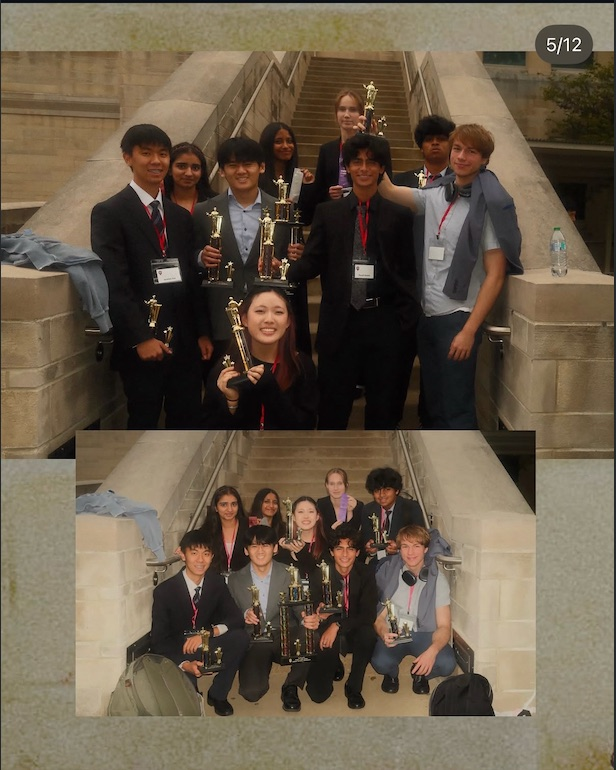
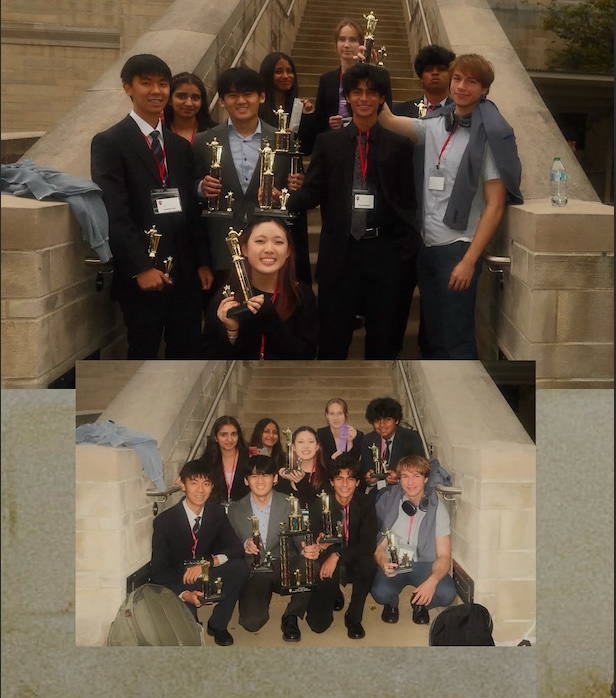
Add pause/play buttons to the FRC clips, crop the Congress photo, record AmeriFab diagram clearance

diff --git a/index.html b/index.html
@@ -313,12 +313,18 @@
       </div>
       <!-- Two silent looping clips. main.js stops them autoplaying for visitors who prefer reduced motion. -->
       <div class="clips">
-        <video muted loop autoplay playsinline preload="metadata" width="360" height="640" poster="assets/frc1-poster.jpg" aria-label="Silent looping clip: a student in safety glasses leans over a miter saw at a workbench in the team's shop while others work behind.">
+        <div class="clip">
+          <video muted loop autoplay playsinline preload="metadata" width="360" height="640" poster="assets/frc1-poster.jpg" aria-label="Silent looping clip: a student in safety glasses leans over a miter saw at a workbench in the team's shop while others work behind.">
           <source src="assets/frc1.mp4" type="video/mp4">
         </video>
-        <video muted loop autoplay playsinline preload="metadata" width="360" height="640" poster="assets/frc2-poster.jpg" aria-label="Silent looping clip: students stand around a machine in the team's shop and watch it work.">
+          <button type="button" class="clip-toggle" data-label-pause="[PLACEHOLDER frc.clip.pause: accessible name for the button that pauses an FRC 868 clip]" data-label-play="[PLACEHOLDER frc.clip.play: accessible name for the button that plays a paused FRC 868 clip]" aria-label="[PLACEHOLDER frc.clip.pause: accessible name for the button that pauses an FRC 868 clip]"></button>
+        </div>
+        <div class="clip">
+          <video muted loop autoplay playsinline preload="metadata" width="360" height="640" poster="assets/frc2-poster.jpg" aria-label="Silent looping clip: students stand around a machine in the team's shop and watch it work.">
           <source src="assets/frc2.mp4" type="video/mp4">
         </video>
+          <button type="button" class="clip-toggle" data-label-pause="[PLACEHOLDER frc.clip.pause: accessible name for the button that pauses an FRC 868 clip]" data-label-play="[PLACEHOLDER frc.clip.play: accessible name for the button that plays a paused FRC 868 clip]" aria-label="[PLACEHOLDER frc.clip.pause: accessible name for the button that pauses an FRC 868 clip]"></button>
+        </div>
       </div>
       <!-- Slot for the team photo (M2). -->
       <div class="slot" id="frc-photo">[PLACEHOLDER frc.photo.alt: alt text describing the team photo]</div>
@@ -347,7 +353,7 @@
             <td>
               <p>Congress Event Head: I lead our new extemporaneous-style Congress division (~15–20 competitors), teaching students to debate congressional legislation and the benefits and drawbacks of proposing any one idea. Turnout doubled year over year.</p>
               <figure class="thumb">
-                <img src="assets/also-congress.jpg" width="616" height="770" loading="lazy" alt="Two group photos of speech and debate students in formal clothes holding trophies on stone steps.">
+                <img src="assets/also-congress.jpg" width="616" height="698" loading="lazy" alt="Two group photos of speech and debate students in formal clothes holding trophies on stone steps.">
               </figure>
             </td>
             <td></td>

diff --git a/styles.css b/styles.css
@@ -387,7 +387,38 @@ h3 {
   padding: 0.65rem;
   background: var(--sheet);
 }
-.clips video { display: block; width: 100%; height: auto; max-width: 20rem; justify-self: center; border: 1px solid var(--ink); }
+.clip { position: relative; max-width: 20rem; justify-self: center; }
+.clips video { display: block; width: 100%; height: auto; border: 1px solid var(--ink); }
+/* Small pause/play button in the clip's corner; the icon is drawn by CSS so it needs no text */
+.clip-toggle {
+  position: absolute;
+  right: 0.5rem;
+  bottom: 0.5rem;
+  width: 2.75rem;
+  height: 2.75rem;
+  padding: 0;
+  background: var(--sheet);
+  border: 1px solid var(--ink);
+  border-radius: 0;
+  color: var(--ink);
+  cursor: pointer;
+}
+.clip-toggle::before {
+  content: "";
+  display: block;
+  margin: auto;
+  width: 0.9rem;
+  height: 1rem;
+  background: linear-gradient(90deg, currentColor 0 35%, transparent 35% 65%, currentColor 65%);
+}
+.clip-toggle.paused::before {
+  width: 0;
+  height: 0;
+  background: none;
+  border-style: solid;
+  border-width: 0.5rem 0 0.5rem 0.85rem;
+  border-color: transparent transparent transparent currentColor;
+}
 
 /* AmeriFab system diagram: ink lines on sheet color; dashed means planned, not built */
 .diagram { margin: 0; padding: 0.65rem; background: var(--sheet); }

diff --git a/main.js b/main.js
@@ -160,11 +160,21 @@ document.querySelectorAll('.video-play').forEach((button) => {
   });
 });
 
-// Looping clips: visitors who prefer reduced motion get the poster frame and the browser's own play controls instead.
-if (window.matchMedia('(prefers-reduced-motion: reduce)').matches) {
-  document.querySelectorAll('.clips video').forEach((video) => {
+// Looping clips: each has a pause/play button. Visitors who prefer reduced motion get the poster frame until they press play.
+const clipsReduced = window.matchMedia('(prefers-reduced-motion: reduce)').matches;
+document.querySelectorAll('.clip').forEach((clip) => {
+  const video = clip.querySelector('video');
+  const toggle = clip.querySelector('.clip-toggle');
+  const sync = () => {
+    toggle.classList.toggle('paused', video.paused);
+    toggle.setAttribute('aria-label', video.paused ? toggle.dataset.labelPlay : toggle.dataset.labelPause);
+  };
+  video.addEventListener('play', sync);
+  video.addEventListener('pause', sync);
+  toggle.addEventListener('click', () => (video.paused ? video.play() : video.pause()));
+  if (clipsReduced) {
     video.removeAttribute('autoplay');
     video.pause();
-    video.controls = true;
-  });
-}
+  }
+  sync();
+});

diff --git a/DECISIONS.md b/DECISIONS.md
@@ -44,11 +44,15 @@ Format: `YYYY-MM-DD | decision | why | decided by`
 2026-10-22 | TEDx talk embeds as a plain button that loads the youtube-nocookie.com player only on click, with no thumbnail | A YouTube thumbnail would be a third-party request on page load, which rule 7 rules out | Claude decided, Sheldon to review
 2026-10-22 | Reused the existing tedx.video.title slot as the player's title and added tedx.video.play (button label) and tedx.video.caption | The button needs visible text that is Sheldon's, and the slot for the title already existed | Claude decided, Sheldon to review
 2026-10-22 | Added Also row 05 (philosophy club, no link) with text from COPY.md | Sheldon supplied the row and said it has no link | Sheldon
-2026-10-22 | Alt text for the DECA photo, two FRC clips and the Congress, Senate, mock trial and econ club photos is plain description of what is visible, with no names | Sheldon asked for plain, factual alt text and I don't know who is pictured | Claude decided, Sheldon to review
+2026-10-22 | Alt text for the DECA photo, two FRC clips and the Congress, Senate, mock trial and econ club photos is plain description of what is visible, with no names | Sheldon asked for plain, factual alt text and I don't know who is pictured | Claude decided, Sheldon approved
 2026-10-22 | Senate photo is cropped to the picture itself (phone status bar and the message bar removed) | The screenshot showed the phone's clock, signal and battery and Instagram's buttons | Claude decided, Sheldon to review
-2026-10-22 | FRC clips are re-encoded as silent mp4 at 360x640 (1.3 MB and 4.3 MB) with the audio and the phone's timed metadata left out, using Apple's built-in video tools, nothing installed | No ffmpeg here, and the originals were 14 MB and 46 MB with audio and location data | Claude decided, Sheldon to review
-2026-10-22 | Clips autoplay muted and loop; visitors who prefer reduced motion get the poster frame and the browser's play controls | Sheldon asked for muted looping inline clips; reduced motion follows the rest of the page | Claude decided, Sheldon to review
+2026-10-22 | FRC clips are re-encoded as silent mp4 at 360x640 (1.3 MB and 4.3 MB) with the audio and the phone's timed metadata left out, using Apple's built-in video tools, nothing installed | No ffmpeg here, and the originals were 14 MB and 46 MB with audio and location data | Claude decided, Sheldon approved
+2026-10-22 | Clips autoplay muted and loop; visitors who prefer reduced motion get the poster frame and the browser's play controls | Sheldon asked for muted looping inline clips; reduced motion follows the rest of the page | Claude decided, Sheldon approved
 2026-10-22 | Hidden until ready, each with one switch (delete the word hidden on the element in index.html): Oncore landing-page link, Patent card, Policy & Civility slides frame, TEDx slides slot. A hidden card also drops out of the sheet index | Sheldon asked to hide these until they are ready | Sheldon
 2026-10-22 | AmeriFab diagram is a vertical inline SVG: Asana, Zapier, then ChatGPT API and Notion side by side, then AWS dashed under Notion | Fits a phone width and keeps every label to Sheldon's exact words | Claude decided, Sheldon to review
 2026-10-22 | TEDx video has no caption: the tedx.video.caption slot and figcaption are removed | Sheldon said no caption | Sheldon
 2026-10-22 | Labels, alt text and Also rows 06-07 written into COPY.md and the page; COPY.md committed by Claude at Sheldon's instruction | Sheldon approved the drafts and asked for the commit with his message | Sheldon
+2026-10-23 | AmeriFab diagram is cleared for the public page, and CLAUDE.md now says so | Sheldon confirmed diagrams of what he built are fine to show publicly as long as no company material appears, and this diagram has only his own labels | Sheldon
+2026-10-23 | Each FRC clip has a small pause/play button in its corner, with an icon drawn in CSS and its accessible names as placeholders (frc.clip.pause, frc.clip.play) | Sheldon asked for it; the clips loop without sound and a visitor needs a way to stop them | Sheldon
+2026-10-23 | Congress photo cropped to remove Instagram's 5/12 badge | Sheldon asked, and the crop only trims the empty strip above the first photo | Sheldon
+2026-10-23 | Senate photo left as it was; its account bar is not cropped | The bar sits over the top third of the police officer's head, so removing it would cut into a person in the photo | Claude decided, Sheldon to review

diff --git a/CLAUDE.md b/CLAUDE.md
@@ -37,7 +37,7 @@ Cards 1–7 each have four sections with these exact headings: "What I built", "
 
 1. **"Now building: [Startup]"** (the startup name is a placeholder). Notes: co-founder, trademark filed, not registered (Sheldon confirmed), v0 in development. Link to the startup's landing page (URL placeholder).
 2. **"Lumen"**. The DECA deck, embedded and clickable, labeled "Concept pitch, DECA ICDC 2026". Link to the live tool (URL placeholder until Sheldon picks Lumen's public link).
-3. **"AmeriFab"**. Production AI system. Slot for an inline SVG system diagram, built later from Sheldon's parts list. Every label in the diagram is his.
+3. **"AmeriFab"**. Production AI system. Inline SVG system diagram, built from Sheldon's parts list. Every label in the diagram is his. Sheldon confirmed diagrams of what he built are fine to show publicly, as long as no company material appears.
 4. **"Patent"**. Reserved slot, placeholders only. Don't render "patent pending" or any status until Sheldon confirms the wording.
 5. **"TEDx"**. Talk embedded from the official TEDx YouTube channel (URL from Sheldon), plus slides.
 6. **"Policy & Civility Club"**. Founded by Sheldon. Slides.
@@ -59,7 +59,7 @@ Sheldon supplies PDFs. Convert the pages to images (`pdftoppm` if it's installed
 
 - **M0, Oct 17.** Sheldon has already committed `CLAUDE.md`, `DECISIONS.md` and `deck/index.html`. Build the skeleton: all eight cards in order with placeholders, deck embedded and clickable with the counter fixed (separate commit), light/dark working. Write `.claude/settings.json` (next section), create `COPY.md` and `PROGRESS.md`, push, and confirm the page is live. Ask Sheldon to confirm any `DECISIONS.md` lines marked "Sheldon to confirm" and update them. Finish by telling him to type `/exit` and start a fresh session next time, so the permissions file loads. Stop.
 - **M1, Oct 19–20.** Apply the design direction Sheldon brings back from the design round.
-- **M2, Oct 20–21.** Assets in: TEDx embed, PDF slides, FRC photo, links. The AmeriFab diagram goes in only after Sheldon confirms AmeriFab is fine with a public diagram.
+- **M2, Oct 20–21.** Assets in: TEDx embed, PDF slides, FRC photo, links. The AmeriFab diagram is cleared to go in: Sheldon confirmed diagrams of what he built are fine to show publicly, as long as no company material appears.
 - **M3, Oct 22.** Final check: phone and desktop, both color modes, keyboard only. List every remaining placeholder id for Sheldon.
 - **By Oct 25.** Move Sheldon's finished `COPY.md` text in. Site submitted Oct 26.
 

diff --git a/PROGRESS.md b/PROGRESS.md
@@ -180,3 +180,17 @@
 - The Congress photo still shows Instagram's "5/12" badge in its corner, and the Senate photo keeps the account name bar at its top. I left both as you supplied them.
 - The clips autoplay and loop with no pause button. They are 4 and 14 seconds long, so a visitor who can't stop motion has only the reduced-motion setting.
 - Still placeholders: `now.link.text`, `club.slides.alt`, `tedx.slides.alt`, `frc.photo.alt` and the Patent card text, all in hidden or unused slots except `frc.photo.alt`.
+
+## Pause buttons, Congress crop, AmeriFab cleared (2026-10-23)
+
+**What changed.** Files: `index.html`, `styles.css`, `main.js`, `assets/also-congress.jpg`, `CLAUDE.md`, `DECISIONS.md`, and `COPY.md` (two empty slots, committed on their own).
+
+- **Pause/play buttons.** Each FRC clip has a small square button in its bottom-right corner. It shows two bars while playing and a triangle when paused, drawn in CSS. Its accessible name switches between two placeholders, `frc.clip.pause` and `frc.clip.play`, which I added to `COPY.md` as empty slots. Visitors who prefer reduced motion get the poster frame and press play themselves.
+- **Congress photo.** I cropped the strip above the first photo, which removes Instagram's "5/12" badge. Nobody in the photo is cut. The image is now 616 by 698 and still has no metadata.
+- **Senate photo not cropped.** The account bar sits across the top third of the police officer's head. Cropping it off would cut into him, so I left it as it was. If you want it gone anyway, the options are cutting his head off at the forehead or covering the bar. Your call.
+- **AmeriFab.** `CLAUDE.md` now says the diagram is cleared: Sheldon confirmed diagrams of what he built are fine to show publicly, as long as no company material appears. The M2 milestone line says the same.
+- **Decisions.** The alt text and the two clip lines in `DECISIONS.md` now say "Sheldon approved". The Senate no-crop line is marked "to review".
+
+**Look at in the diff.** The `.clip-toggle` rules in `styles.css` and the clip block at the end of `main.js`.
+
+**Things to know.** I haven't seen the page rendered or pressed the buttons. Check that the button doesn't cover anything important in the clips and is easy to tap on a phone. The two new `COPY.md` slots are empty until you write the button names, so the buttons show placeholders for now.
